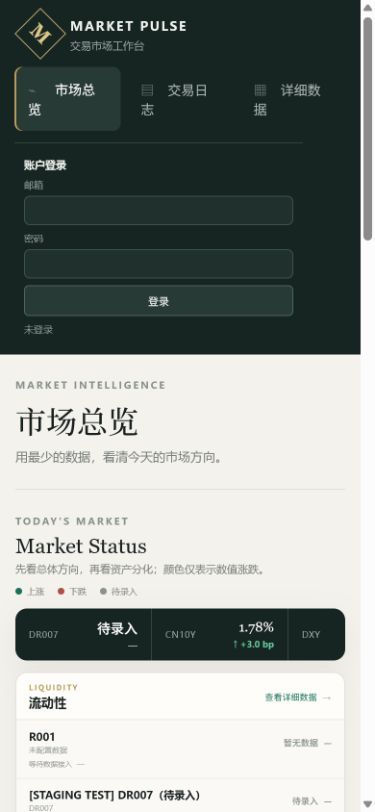
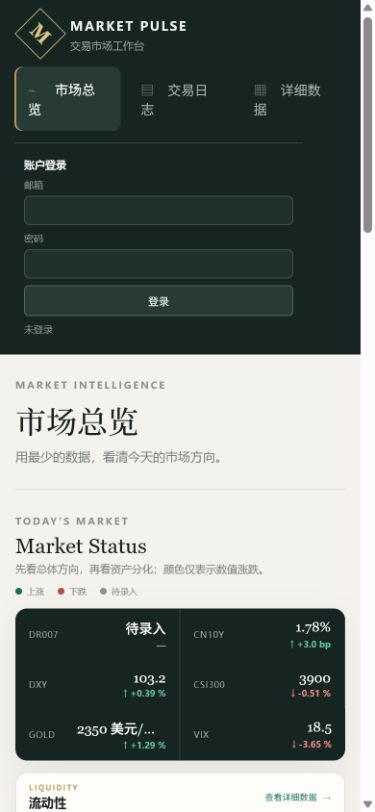
fix: harden overview responsive states

Changed region(s): [[0.0293, 0.7389, 0.9387, 1.0], [0.968, 0.2771, 0.9973, 0.3079]]

diff --git a/test/market-overview-v2.test.js b/test/market-overview-v2.test.js
@@ -4,11 +4,35 @@ const assert = require('node:assert/strict');
 const fs = require('node:fs');
 const path = require('node:path');
 const test = require('node:test');
+const vm = require('node:vm');
 
 const root = path.resolve(__dirname, '..');
 const html = fs.readFileSync(path.join(root, 'public/index.html'), 'utf8');
 const app = fs.readFileSync(path.join(root, 'public/app.js'), 'utf8');
 const css = fs.readFileSync(path.join(root, 'public/overview.css'), 'utf8');
+
+function extractFunction(source, name) {
+  const start = source.indexOf('function ' + name + '(');
+  assert.notEqual(start, -1, 'missing function ' + name);
+  const bodyStart = source.indexOf('{', start);
+  let depth = 0;
+  let index;
+  for (index = bodyStart; index < source.length; index += 1) {
+    if (source[index] === '{') depth += 1;
+    if (source[index] === '}') {
+      depth -= 1;
+      if (depth === 0) return source.slice(start, index + 1);
+    }
+  }
+  throw new Error('unterminated function ' + name);
+}
+
+function loadOverviewModel() {
+  const context = {};
+  const names = ['text', 'escapeHtml', 'simpleValue', 'simpleChange', 'marketStatusClass', 'overviewRow'];
+  vm.runInNewContext(names.map((name) => extractFunction(app, name)).join('\n'), context);
+  return context;
+}
 
 test('Market Overview 2.0 exposes the intended information hierarchy', () => {
   assert.match(html, /TODAY'S MARKET/);
@@ -39,6 +63,29 @@ test('Overview uses scoped up, down and pending states without changing global A
   assert.match(app, /\/api\/dashboard-compat\?t=/);
 });
 
+test('Market state mapping executes correctly for up, down, flat, pending and invalid values', () => {
+  const model = loadOverviewModel();
+  assert.equal(model.marketStatusClass({ value: 2, previous_value: 1, source: 'Test' }), 'status-up');
+  assert.equal(model.marketStatusClass({ value: 1, previous_value: 2, source: 'Test' }), 'status-down');
+  assert.equal(model.marketStatusClass({ value: 1, previous_value: 1, source: 'Test' }), 'status-flat');
+  assert.equal(model.marketStatusClass({ value: null, previous_value: 1, source: 'Test' }), 'status-pending');
+  assert.equal(model.marketStatusClass({ value: 'invalid', previous_value: 1, source: 'Test' }), 'status-pending');
+  assert.equal(model.marketStatusClass({ value: 1, previous_value: 0, source: '待手工录入' }), 'status-pending');
+});
+
+test('Missing and invalid market values render explicit data states instead of numeric artifacts', () => {
+  const model = loadOverviewModel();
+  const missing = { name: 'Missing', symbol: 'MISS', value: null, previous_value: 1, value_unit: '%', source: 'Test', change_type: 'percent', as_of: '', frequency: '', is_manual: false };
+  const invalid = { name: 'Invalid', symbol: 'BAD', value: 'NaN', previous_value: 1, value_unit: '', source: 'Test', change_type: 'percent', as_of: '', frequency: '', is_manual: false };
+  assert.equal(model.simpleValue(missing), '暂无数据');
+  assert.equal(model.simpleChange(missing), '暂无数据');
+  assert.equal(model.simpleValue(invalid), '暂无数据');
+  assert.equal(model.simpleChange(invalid), '暂无数据');
+  for (const output of [model.overviewRow(missing, 'MISS'), model.overviewRow(invalid, 'BAD'), model.overviewRow(null, 'NONE')]) {
+    assert.doesNotMatch(output, /(?:NaN|undefined|null)/);
+  }
+});
+
 test('Overview keeps the stable ES5 and XMLHttpRequest loading path', () => {
   assert.doesNotMatch(app, /\b(?:const|let)\b/);
   assert.doesNotMatch(app, /=>/);
@@ -53,4 +100,5 @@ test('Overview defines Desktop, Tablet and Mobile layouts', () => {
   assert.match(css, /@media \(max-width: 760px\)/);
   assert.match(css, /repeat\(4, minmax\(0, 1fr\)\)/);
   assert.match(css, /repeat\(2, minmax\(0, 1fr\)\)/);
+  assert.match(css, /#overview \.ticker \{ display: grid; grid-template-columns: repeat\(2, minmax\(0, 1fr\)\); overflow: hidden; \}/);
 });

diff --git a/public/overview.css b/public/overview.css
@@ -96,10 +96,9 @@
 @media (max-width: 760px) {
   .overview-intro { display: block; }
   .status-legend { margin-top: 10px; padding: 0; }
-  #overview .ticker { overflow-x: auto; scrollbar-width: none; }
-  #overview .ticker::-webkit-scrollbar { display: none; }
+  #overview .ticker { display: grid; grid-template-columns: repeat(2, minmax(0, 1fr)); overflow: hidden; }
   #overview .ticker-item,
-  #overview .ticker-item:nth-child(n+3) { display: grid; flex: 0 0 142px; min-width: 142px; }
+  #overview .ticker-item:nth-child(n+3) { display: grid; min-width: 0; }
   #overview .overview-grid,
   .overview-lower-grid { grid-template-columns: 1fr; }
   #overview .calendar-panel { grid-column: auto; overflow: hidden; }

diff --git a/public/app.js b/public/app.js
@@ -154,12 +154,14 @@
 
   function simpleValue(item) {
     if (!item || item.source === '待手工录入') return '待录入';
+    if (item.value === null || item.value === undefined || item.value === '' || !isFinite(Number(item.value))) return '暂无数据';
     return text(item.value) + (item.value_unit ? (item.value_unit === '%' ? '%' : ' ' + item.value_unit) : '');
   }
 
   function simpleChange(item) {
     var change;
     if (!item || item.source === '待手工录入') return '—';
+    if (item.value === null || item.value === undefined || item.value === '' || item.previous_value === null || item.previous_value === undefined || item.previous_value === '' || !isFinite(Number(item.value)) || !isFinite(Number(item.previous_value))) return '暂无数据';
     if (item.change_type === 'bp') change = (Number(item.value) - Number(item.previous_value)) * (item.value_unit === 'bp' ? 1 : 100);
     else change = Number(item.previous_value) ? (Number(item.value) / Number(item.previous_value) - 1) * 100 : 0;
     if (!isFinite(change)) return '暂无数据';
@@ -174,6 +176,7 @@
   function marketStatusClass(item) {
     var change;
     if (!item || item.source === '待手工录入') return 'status-pending';
+    if (item.value === null || item.value === undefined || item.value === '' || item.previous_value === null || item.previous_value === undefined || item.previous_value === '' || !isFinite(Number(item.value)) || !isFinite(Number(item.previous_value))) return 'status-pending';
     change = Number(item.value) - Number(item.previous_value);
     return change > 0 ? 'status-up' : change < 0 ? 'status-down' : 'status-flat';
   }